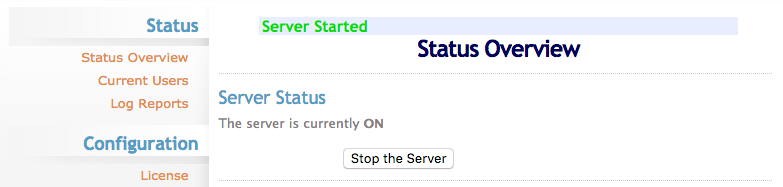
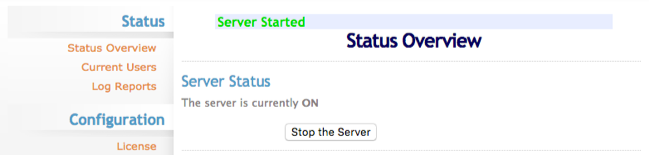
Image resize and rename

diff --git a/docs/networking/vpn/install-openvpn-access-server-on-linux/index.md b/docs/networking/vpn/install-openvpn-access-server-on-linux/index.md
@@ -206,7 +206,7 @@ The first command enables traffic forwarding over IPv4 in your system configurat
 
 Once forwarding is enabled, restart OpenVPN by clicking on the **Stop the Server**, then **Start the Server** buttons under the **Status Overview** section in the Access Server Admin UI:
 
-[![OpenVPN Access Server Restart](openvpn-access-server-restart-resize.png "OpenVPN Access Server Restart")](openvpn-access-server-restart.png)
+![OpenVPN Access Server Restart](openvpn-access-server-restart.png "OpenVPN Access Server Restart")
 
 ### Disable IPv6
 
